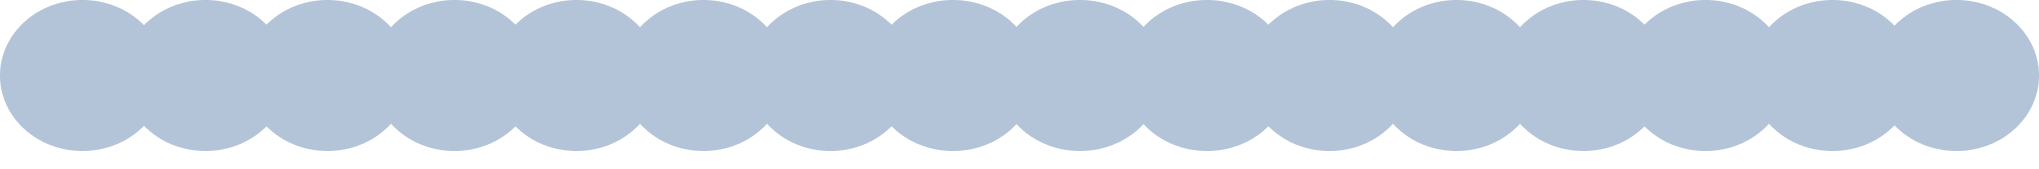
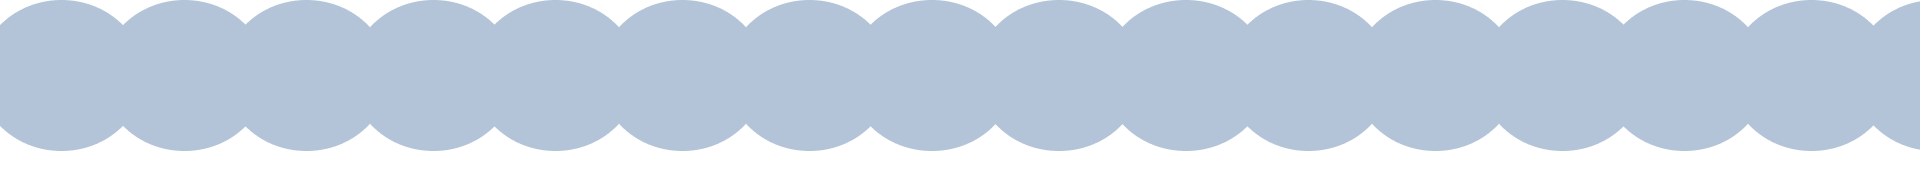
pageProduct

diff --git a/src/pages/user/Products.tsx b/src/pages/user/Products.tsx
@@ -1,16 +1,66 @@
 import { waves } from "../../assets/images"
+import { fishnetRight } from "../../assets/images"
+import ProductsCard from "../../components/ProductPage/ProductsCard";
+import ProductsName from "../../components/ProductPage/ProductsName"
+import axios from "axios";
+import { useEffect, useState } from "react";
 
 const Products = () => {
-    return (
-        <section  className=" bg-extralight-blue">
-          <img
-                    src={waves}
-                    alt='waves'
-                    className="w-full"
-                />
-        <div className="h-screen bg-extralight-blue">
 
-        </div>
+    interface Product {
+        available: boolean;
+        description: string;
+        id: number;
+        name: string;
+        photos: string[];
+        price: number;
+        category: string;
+    }
+
+    const [apiData, setApiData] = useState<Product[]>([])
+
+    useEffect(() => {
+        async function fetchData() {
+            try {
+                const response = await axios.get('http://127.0.0.1:1337/products')
+                if (response.status === 200 && response.data.status === 200) {
+                    setApiData(response.data.data)
+                }
+            } catch (error) {
+                console.log(error)
+            }
+        }
+        fetchData()
+    }, [])
+
+    return (
+        <section className="bg-extralight-blue">
+            <img
+                src={waves}
+                alt='waves'
+                className="w-full pt-5 z-30"
+            />
+            <img
+                src={fishnetRight}
+                alt='net'
+                className="absolute right-0 z-0  w-[45%]"
+            />
+            <div className="">
+                <div className="bg-light-blue w-[435px] ml-10 pb-10 rounded-md mt-[-26px] ">
+                    <h1 className="text-4xl font-montserrat font-bold text-dark-blue p-10 pt-20">Продукция</h1>
+                    {apiData.map((product) => (
+                        <ProductsName key={product.id} {...product} />
+                    ))}
+                </div>
+                <div>
+                    <h1 className="text-4xl font-montserrat font-bold text-dark-blue z-10 ">Наименование</h1>
+                    <div className="grid grid-cols-3 gap-2 z-10 ">
+                        {apiData.map((product) => (
+                            <ProductsCard key={product.id} {...product} />
+                        ))}
+                    </div>
+                </div>
+            </div>
         </section>
     )
 }

diff --git a/src/components/Button.tsx b/src/components/Button.tsx
@@ -1,11 +1,13 @@
 import React from 'react';
 
-const Button = ({ label, href, Cart, Order, Catalog, Enter, onClick  }: any) => {
+const Button = ({ label, href, Cart, Order, Catalog, Enter, onClick, inCart  }: any) => {
   const buttonClass = `flex justify-center font-montserrat items-center border-none px-7 py-3 hover:ring-main-blue hover:ring-2 
          ${Cart ? ' w-[215px] h-[40px] rounded-md bg-extralight-blue ' : ''}
          ${Order ? ' rounded-3xl w-[335px] bg-white text-dark-blue' : ''}
          ${Catalog ? ' bg-main-blue rounded-3xl hover:ring-light-blue hover:ring-2 ' : ''}
-         ${Enter ? 'rounded-md py-2 px-4 w-full bg-main-blue ' : ''}`;
+         ${Enter ? 'rounded-md py-2 px-4 w-full bg-main-blue ' : ''}
+         ${inCart ? 'w-[190px] h-[35px] bg-main-blue rounded-xl hover:ring-dark-blue hover:ring-2' :''}`;
+      
 
   return (
     <button className={buttonClass} onClick={onClick}>
@@ -37,6 +39,8 @@ const Button = ({ label, href, Cart, Order, Catalog, Enter, onClick  }: any) => 
               ? 'text-4xl text-white-400 font-bold max-2xl:text-3xl'
               : Enter
               ? 'text-2xl text-white font-bold'
+              : inCart 
+              ? 'text-white font-bold text-2xl' 
               : ''
           }
         >

diff --git a/src/constants/index.ts b/src/constants/index.ts
@@ -1,4 +1,5 @@
 import { sale } from "../assets/images";
+import { caviar, smokedFishFire , smokedFish} from "../assets/images";
 export const navLinks = [
     { href: "/products", label: "Продукция" },
     { href: "/about-us", label: "О нас" },
@@ -35,5 +36,24 @@ export const productions = [
         id:6,
         name: "Продукция",
         img: sale,
+    },
+];
+
+
+export const products = [
+    {
+        id:1,
+        name: "Икра",
+        icon: caviar,
+    },
+    {
+        id:2,
+        name: "Рыба холодного копчения",
+        icon: smokedFish,
+    },
+    {
+        id:3,
+        name: "Рыба горячего копчения",
+        icon: smokedFishFire,
     },
 ];

diff --git a/src/components/ProductPage/ProductsCard.tsx b/src/components/ProductPage/ProductsCard.tsx
@@ -1,0 +1,20 @@
+import Button from "../Button"
+
+
+const ProductsCard = ({ name, price }: any) => {
+    return (
+        <div className=""> 
+            <div className="rounded-md  ml-10 bg-white mb-20 w-full h-full z-10">
+                    {/* <img src={photos} alt={name} /> */}
+            </div>
+            <h3 className="text-main-blue font-montserrat text-xl font-normal"> {name} </h3>
+                <div className="flex">
+                    <p className="text-dark-blue font-montserrat text-xl font-semibold"> {price}/кг</p>
+                    <Button label="В корзину" inCart={true}/>
+                </div>
+           
+        </div>
+    )
+}
+
+export default ProductsCard

diff --git a/src/routes/routes.tsx b/src/routes/routes.tsx
@@ -16,7 +16,7 @@ export const useRoutes = () => {
                     <Route path="/about-us" element={<Layout><AboutUs/></Layout>}></Route>
                     <Route path="/delivery-payment" element={<Layout><DeliveryPayment/></Layout>}></Route>
                     <Route path="/contacts" element={<Layout><Contacts/></Layout>}></Route>
-                    <Route path="/order" element={<Cart/>}></Route>
+                    <Route path="/order" element={<Layout><Cart/></Layout>}></Route>
                     <Route path="/auth" element={<Auth/>}></Route>
 
                     <Route element={<PrivateRoute/>}>

diff --git a/src/components/ProductPage/ProductsName.tsx b/src/components/ProductPage/ProductsName.tsx
@@ -1,0 +1,16 @@
+import { arrow } from "../../assets/images"
+
+const ProductsName = ({ category}: any) => {
+    return (
+            <div className="flex m-10 items-center ">
+                {/* <img src={icon} alt={category} className="mr-10 w-12 h-12" /> */}
+                <img src={arrow} alt={category} className="mr-10 w-10 h-10 cursor-pointer "/>
+                <h3  className="text-white text-[32px]  leading-none font-bold hover:text-dark-blue font-montserrat cursor-pointer ">  
+                    {category}
+                </h3>
+            </div>
+    )
+}
+
+
+export default ProductsName

diff --git a/src/assets/images/index.ts b/src/assets/images/index.ts
@@ -10,8 +10,12 @@ import mainWavesEnd from './main-page-end.png'
 import waves from './waves.png'
 import adminFish from './admin.png'
 import productFish from './fish-right.png'
-
+import caviar from './caviar.svg'
+import smokedFishFire from './smoked-fish-fire.svg'
+import smokedFish from './smoked-fish.svg'
+import arrow from './arrow.svg'
 import hamburger from './hamburger.svg'
+
 export {
     headerLogo,
     headerSearch,
@@ -25,5 +29,9 @@ export {
     adminFish,
     hamburger,
     productFish,
-    waves
+    waves,
+    caviar,
+    smokedFishFire,
+    smokedFish,
+    arrow
 };

diff --git a/src/pages/user/DeliveryPayment.tsx b/src/pages/user/DeliveryPayment.tsx
@@ -1,7 +1,17 @@
+import { waves } from "../../assets/images"
 
 const DeliveryPayment = () => {
     return (
-        <div>DeliveryPayment</div>
+        <section  className=" bg-extralight-blue">
+        <img
+                  src={waves}
+                  alt='waves'
+                  className="w-full pt-5"
+              />
+      <div className="h-screen bg-extralight-blue">
+
+      </div>
+      </section>
     )
 }
 

diff --git a/src/pages/user/Contacts.tsx b/src/pages/user/Contacts.tsx
@@ -1,7 +1,17 @@
+import { waves } from "../../assets/images"
 
 const Contacts = () => {
     return (
-        <div>contacts</div>
+        <section  className=" bg-extralight-blue">
+        <img
+                  src={waves}
+                  alt='waves'
+                  className="w-full pt-5"
+              />
+      <div className="h-screen bg-extralight-blue">
+
+      </div>
+      </section>
     )
 }
 

diff --git a/src/pages/user/Cart.tsx b/src/pages/user/Cart.tsx
@@ -1,6 +1,17 @@
+import { waves } from "../../assets/images"
+
 const Cart = () => {
     return (
-        <div>your cart</div>
+        <section  className=" bg-extralight-blue">
+        <img
+                  src={waves}
+                  alt='waves'
+                  className="w-full pt-5"
+              />
+      <div className="h-screen bg-extralight-blue">
+
+      </div>
+      </section>
     )
 }
 
